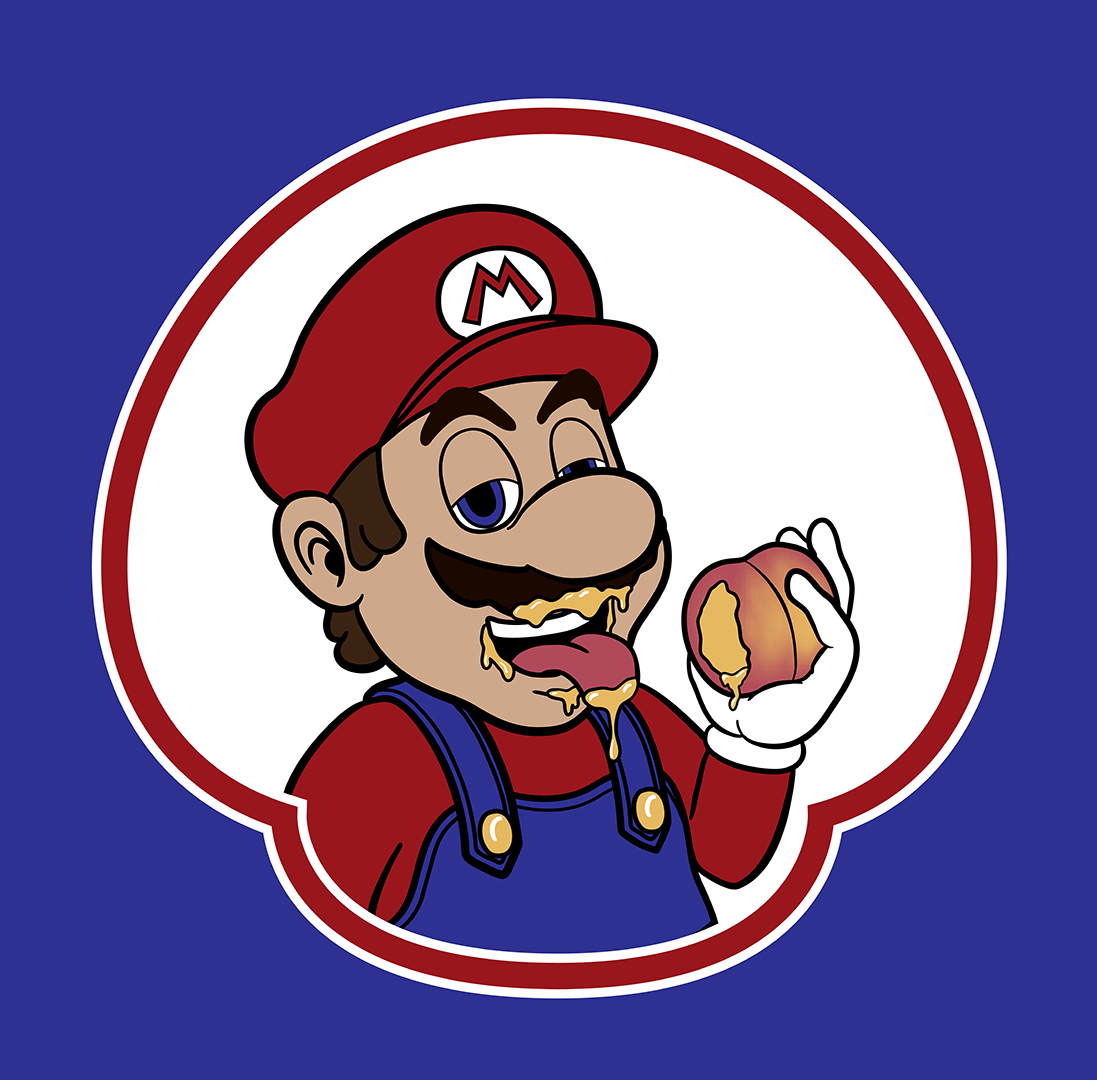
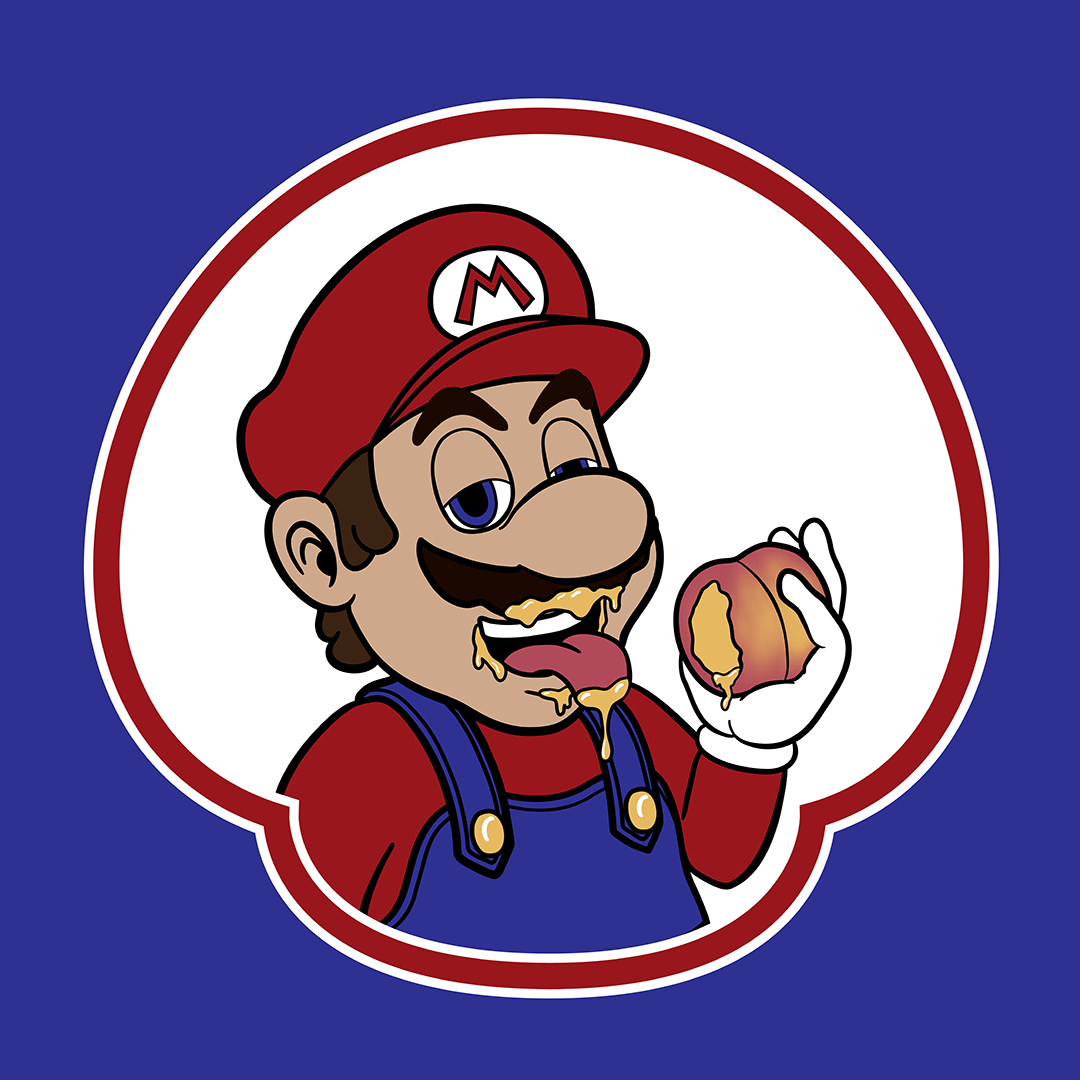
Tweak image ratio

diff --git a/src/app/services/art-list.service.ts b/src/app/services/art-list.service.ts
@@ -8,9 +8,9 @@ export class ArtListService{
 	// data;
   private artList: Artwork[] = [];
   public artFilters: any = {
-    media: {"Charcoal/Graphite": true},
-    types: {"Portrait": true},
-    references: {"Film/TV": true} 
+    media: {"Charcoal/Graphite": true, "Digital": true},
+    types: {"Portrait": true, "Illustration": true},
+    references: {"Film/TV": true, "Music": true} 
   };
 
   constructor(private http: Http) {
@@ -63,7 +63,6 @@ export class ArtListService{
       let typesMatch: boolean = false;
       let referencesMatch: boolean = false;
 
-      console.log("Media: ", this.artFilters.media);
       for(let medium in this.artFilters.media) {
         if(this.artFilters.media[medium] == true){
           if(artwork.getMedium() == medium) mediaMatch = true;
@@ -79,7 +78,10 @@ export class ArtListService{
       for(let reference in this.artFilters.references) {
         if(this.artFilters.references[reference] == true){
           for(let artworkReference of artwork.getReferences()){
-            if(artworkReference == reference) referencesMatch = true;
+            if(artworkReference == reference){
+              referencesMatch = true;
+              console.log(artwork.getTitle(), artworkReference, reference);
+            }
           }
         }
       }

diff --git a/src/app/components/filter-menu/filter-menu.component.spec.ts b/src/app/components/filter-menu/filter-menu.component.spec.ts
@@ -1,0 +1,25 @@
+import { async, ComponentFixture, TestBed } from '@angular/core/testing';
+
+import { FilterMenuComponent } from './filter-menu.component';
+
+describe('FilterMenuComponent', () => {
+  let component: FilterMenuComponent;
+  let fixture: ComponentFixture<FilterMenuComponent>;
+
+  beforeEach(async(() => {
+    TestBed.configureTestingModule({
+      declarations: [ FilterMenuComponent ]
+    })
+    .compileComponents();
+  }));
+
+  beforeEach(() => {
+    fixture = TestBed.createComponent(FilterMenuComponent);
+    component = fixture.componentInstance;
+    fixture.detectChanges();
+  });
+
+  it('should create', () => {
+    expect(component).toBeTruthy();
+  });
+});

diff --git a/src/app/app.module.ts b/src/app/app.module.ts
@@ -18,6 +18,7 @@ import { Error404PageComponent } from './pages/error-404-page/error-404-page.com
 import { ArtListService } from './services/art-list.service';
 
 import { SpinnerComponent } from './components/spinner/spinner.component';
+import { FilterMenuComponent } from './components/filter-menu/filter-menu.component';
 
 
 @NgModule({
@@ -30,7 +31,8 @@ import { SpinnerComponent } from './components/spinner/spinner.component';
     GalleryPageComponent,
     ArtworkPageComponent,
     Error404PageComponent,
-    SpinnerComponent
+    SpinnerComponent,
+    FilterMenuComponent
   ],
   imports: [
     BrowserModule,

diff --git a/src/app/components/filter-menu/filter-menu.component.ts b/src/app/components/filter-menu/filter-menu.component.ts
@@ -1,0 +1,15 @@
+import { Component, OnInit } from '@angular/core';
+
+@Component({
+  selector: 'app-filter-menu',
+  templateUrl: './filter-menu.component.html',
+  styleUrls: ['./filter-menu.component.scss']
+})
+export class FilterMenuComponent implements OnInit {
+
+  constructor() { }
+
+  ngOnInit() {
+  }
+
+}

diff --git a/src/app/components/filter-menu/filter-menu.component.html b/src/app/components/filter-menu/filter-menu.component.html
@@ -1,0 +1,3 @@
+<p>
+  filter-menu works!
+</p>
